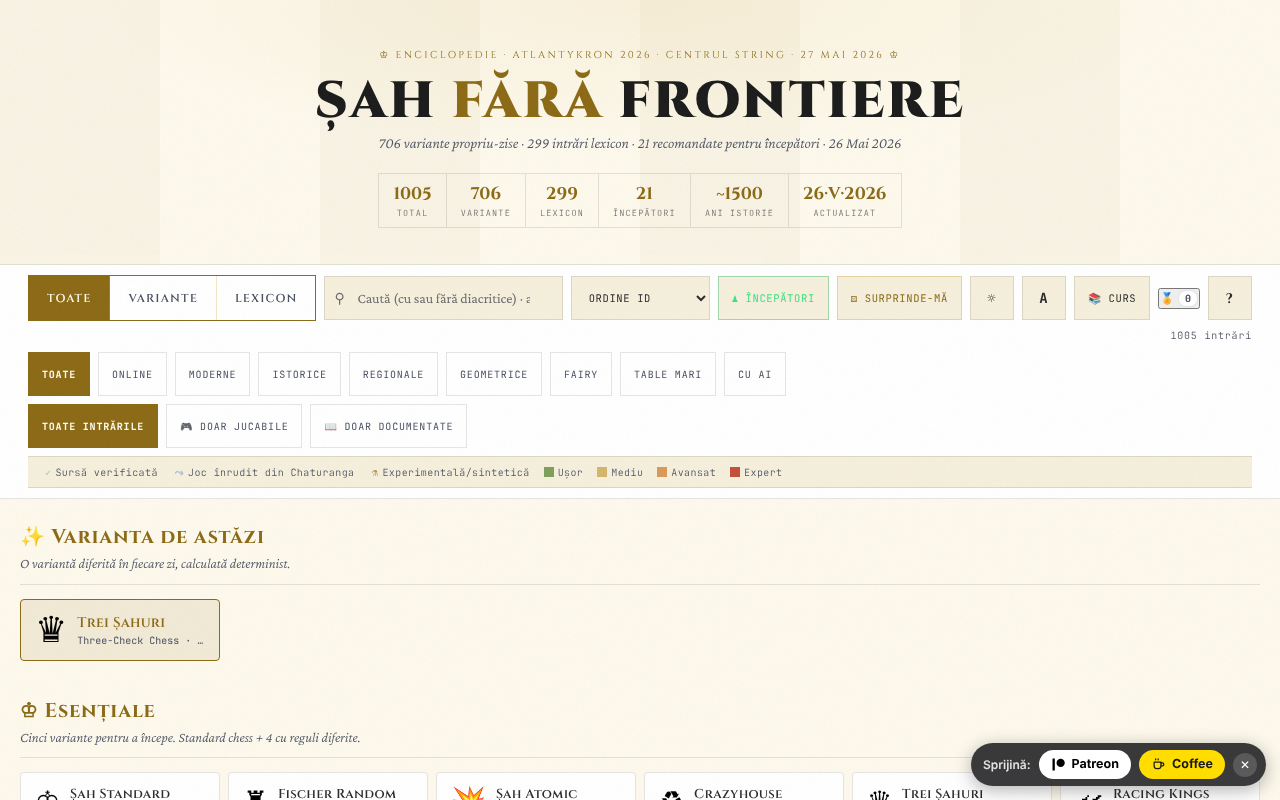
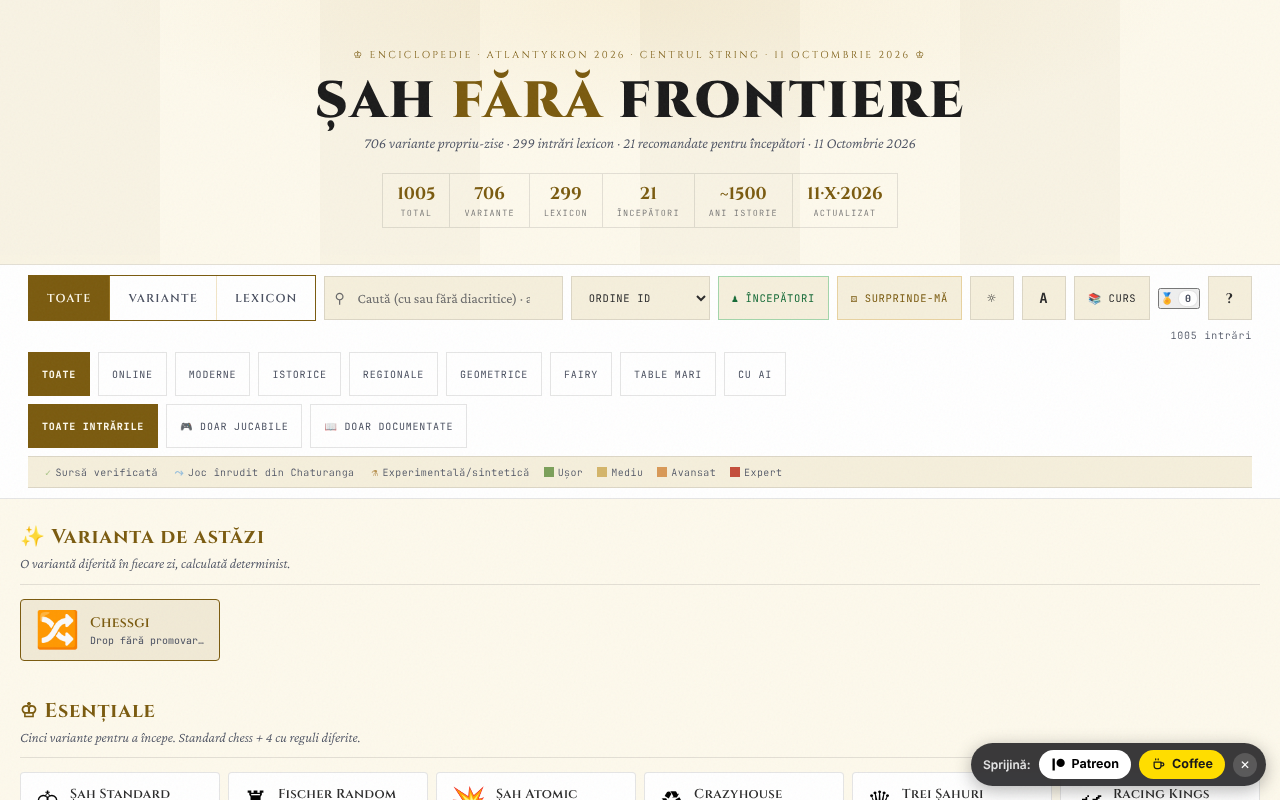
Runda 7 (11 octombrie 2026): defecte noi reparate, hash CSP, îmbunătățiri
Claude-Session: https://claude.ai/code/session_01D2sCEb3hy3nutYexhUfQFs

diff --git a/index.html b/index.html
@@ -25,7 +25,7 @@
   *,*::before,*::after{animation-duration:.001ms!important;animation-iteration-count:1!important;transition-duration:.001ms!important;scroll-behavior:auto!important}
 }
 </style>
-  <meta http-equiv="Content-Security-Policy" content="default-src 'self'; img-src 'self' data: blob:; style-src 'self' 'unsafe-inline'; font-src 'self' data:; media-src 'self' blob: data:; object-src 'none'; base-uri 'self'; form-action 'self'; worker-src 'none'; script-src 'self' 'sha256-RaRVHBQY6+g3XPTMHZW0YeQk2WKn/Yp3HyUL7DVeju4=' 'sha256-YKjzxrQphAnV0I+l9BDGWxbiZzM/1gRWe+LR5alC3Ak='; connect-src 'self'">
+  <meta http-equiv="Content-Security-Policy" content="default-src 'self'; img-src 'self' data: blob:; style-src 'self' 'unsafe-inline'; font-src 'self' data:; media-src 'self' blob: data:; object-src 'none'; base-uri 'self'; form-action 'self'; worker-src 'none'; script-src 'self' 'sha256-RaRVHBQY6+g3XPTMHZW0YeQk2WKn/Yp3HyUL7DVeju4=' 'sha256-zb42K2/twJu29Axka4JlBXWBq6f2QoQi8UZt/9v1gXk='; connect-src 'self'">
 <meta name="viewport" content="width=device-width, initial-scale=1.0">
 <title>Șah fără frontiere — 706 variante + 299 lexicon · 11 Octombrie 2026</title>
 <meta name="description" content="Enciclopedie șah: 706 variante propriu-zise și 299 intrări lexicon (istorie, AI, jucători, deschideri). Atelier Atlantykron 2026 · Centrul StrING.">
@@ -106,7 +106,7 @@
   background:linear-gradient(135deg,var(--gold-soft),transparent);
   border:1px solid var(--gold);border-radius:12px;padding:18px 48px 18px 22px;
   font-size:14px;line-height:1.6;color:var(--text);box-shadow:var(--shadow)}
-#welcome-banner h3{font-size:16px;color:var(--gold);margin:0 0 8px;
+#welcome-banner h2{font-size:16px;color:var(--gold);margin:0 0 8px;
   font-family:"JetBrains Mono",monospace;letter-spacing:.04em}
 #welcome-banner p{margin:0 0 6px}
 #welcome-banner .wb-steps{margin:8px 0 0;padding-left:0;list-style:none;
@@ -125,7 +125,7 @@
   background:linear-gradient(135deg,rgba(94,140,106,0.12),transparent);
   border:1px solid var(--jade,#5e8c6a);border-radius:12px;padding:18px 48px 18px 22px;
   font-size:14px;line-height:1.6;color:var(--text);box-shadow:var(--shadow)}
-#resume-banner h3{font-size:16px;color:var(--jade,#5e8c6a);margin:0 0 8px;
+#resume-banner h2{font-size:16px;color:var(--jade,#5e8c6a);margin:0 0 8px;
   font-family:"JetBrains Mono",monospace;letter-spacing:.04em}
 #resume-banner p{margin:0 0 12px}
 #resume-banner .wb-close{position:absolute;top:12px;right:12px;background:none;border:none;
@@ -171,6 +171,9 @@ h1 span{color:var(--gold)}
 /* ===== Controls ===== */
 .controls{padding:10px 28px;border-bottom:1px solid var(--border);background:var(--surface);position:sticky;top:0;z-index:100;backdrop-filter:blur(10px);-webkit-backdrop-filter:blur(10px);display:flex;flex-direction:column;gap:8px}
 .controls-row{display:flex;gap:8px;flex-wrap:wrap;align-items:center}
+/* Pe ecrane înguste/scurte bara de comenzi (≈620 px înălțime) ar acoperi aproape tot viewportul dacă ar rămâne lipită sus: devine statică */
+#grid .card,.curated-card,[id^="sec-"]{scroll-margin-top:250px}
+@media (max-width:820px),(max-height:560px){.controls{position:static}#grid .card,.curated-card,[id^="sec-"]{scroll-margin-top:12px}}
 
 .section-toggle{display:inline-flex;border:1px solid var(--gold);overflow:hidden}
 .section-btn{font-family:"Cinzel",Georgia,serif;font-size:11.5px;letter-spacing:.1em;text-transform:uppercase;padding:11px 18px;border:none;background:transparent;color:var(--silver);cursor:pointer;transition:all .12s;border-right:1px solid rgba(212,168,71,.3);font-weight:600;min-height:44px}
@@ -649,6 +652,10 @@ body[data-theme="light"] .turn-label.black{color:#666}
 @media (max-width:600px){
   .play-controls-row .ai-note .ai-note-text{display:none}
 }
+.ai-busy{display:flex;align-items:center;justify-content:center;gap:8px;margin:6px auto 0;padding:5px 12px;max-width:max-content;border:1px solid var(--gold);border-radius:999px;background:var(--gold-soft);color:var(--text);font-family:"JetBrains Mono",monospace;font-size:12px}
+.ai-busy-spin{width:12px;height:12px;border:2px solid var(--gold);border-top-color:transparent;border-radius:50%;animation:aibusyspin .8s linear infinite}
+@keyframes aibusyspin{to{transform:rotate(360deg)}}
+@media(prefers-reduced-motion:reduce){.ai-busy-spin{animation:none;border-top-color:var(--gold)}}
 .play-status{font-family:"JetBrains Mono",monospace;font-size:10px;color:var(--silver);text-align:center;letter-spacing:.04em;margin-top:4px;line-height:1.4}
 
 /* Mobile <500px: tighten play controls for small screens */
@@ -1143,7 +1150,7 @@ body.loading .grid::before{
       <h3>Mulțumiri</h3>
       <p>Wikipedia (peste 200 articole consultate); World Xiangqi Federation; Lichess (Crazyhouse + variant docs); Władysław Gliński (1936) pentru tabla hexagonală; V.R. Parton (1953) pentru Alice Chess; H.J.R. Murray pentru <em>A History of Chess</em> (1913). Recenzii oneste și critice de la 12 persoane imaginare (vezi documentul separat 12-recenzii-oneste.html). Implementare în iterații cu asistență AI — fiecare engine verificat cu mass-sweep automat.</p>
       <h3>Versiune</h3>
-      <p class="mono">v14.2 · Octombrie 2026 · Atlantykron 2026 · CC0 1.0</p>
+      <p class="mono">v14.3 · Octombrie 2026 · Atlantykron 2026 · CC0 1.0</p>
       <h3>Ghid de utilizare</h3>
       <p>
         <button type="button" class="about-action-btn" id="about-restart-tour">▶ Reia tour-ul de prezentare</button>
@@ -8999,6 +9006,29 @@ function aiSchedulePrecomputation(domMap, userColor, cols, rows){
   }, {timeout: 2000});
 }
 
+// Indicator vizual (aria-hidden; starea rămâne anunțată prin #play-status) cu secundele scurse cât gândește AI-ul
+let _aiBusyTimer = null;
+function _hideAIBusy(){
+  if (_aiBusyTimer){ clearInterval(_aiBusyTimer); _aiBusyTimer = null; }
+  const b = document.getElementById("ai-busy"); if (b) b.remove();
+}
+function _showAIBusy(){
+  _hideAIBusy();
+  const ps = document.getElementById("play-status");
+  if (!ps || !ps.parentNode) return;
+  const el = document.createElement("div");
+  el.id = "ai-busy"; el.className = "ai-busy"; el.setAttribute("aria-hidden", "true");
+  el.innerHTML = '<span class="ai-busy-spin"></span><span class="ai-busy-txt">AI gândește…</span>';
+  ps.parentNode.insertBefore(el, ps.nextSibling);
+  const t0 = Date.now();
+  _aiBusyTimer = setInterval(() => {
+    if (!aiThinking || !document.getElementById("ai-busy")){ _hideAIBusy(); return; }
+    const sec = Math.floor((Date.now() - t0) / 1000);
+    const txt = el.querySelector(".ai-busy-txt");
+    if (txt) txt.textContent = "AI gândește… " + sec + " s";
+  }, 250);
+}
+
 function aiPlayMove(board, v, cols, rows){
   if (aiThinking || gameEnded){
     // FIX BUG 4 (rec. IX/Vlad): if we were running AI vs AI and just hit a
@@ -9009,6 +9039,7 @@ function aiPlayMove(board, v, cols, rows){
   aiThinking = true;
   appendAIDialog('💭 <em>Calculez mutarea...</em>', true);
   document.getElementById("play-status").textContent = "🤖 AI gândește...";
+  _showAIBusy();
   setTimeout(async () => {
     try {
       const svg = _getActiveBoardSvg();
@@ -11458,7 +11489,7 @@ document.getElementById("about-export-bibtex").addEventListener("click", () => {
     '  title  = {Atlas {\\c{S}}ah f\\u{a}r\\u{a} frontiere},\n' +
     '  author = {Chiu\\c{t}\\u{a}, Alexandru-Ionu\\c{t}},\n' +
     '  year   = {' + year + '},\n' +
-    '  note   = {v14.2 \\textperiodcentered{} Atlantykron 2026 \\textperiodcentered{} Centrul StrING \\textperiodcentered{} ' + V.length + ' intr\\u{a}ri},\n' +
+    '  note   = {v14.3 \\textperiodcentered{} Atlantykron 2026 \\textperiodcentered{} Centrul StrING \\textperiodcentered{} ' + V.length + ' intr\\u{a}ri},\n' +
     '  url    = {' + location.origin + location.pathname + '},\n' +
     '  urldate = {' + today + '}\n' +
     '}';
@@ -12008,7 +12039,7 @@ requestAnimationFrame(() => {
         banner.setAttribute("aria-label", "Bun venit — ghid rapid");
         banner.innerHTML =
           '<button class="wb-close" aria-label="Închide ghidul de bun venit" title="Închide">✕</button>' +
-          '<h3>♔ Bun venit la Atlas Șah fără frontiere</h3>' +
+          '<h2>♔ Bun venit la Atlas Șah fără frontiere</h2>' +
           '<p>Explorează 1005 intrări: 706 variante de șah jucabile + 299 termeni de lexicon. Tot ce vezi funcționează 100% offline.</p>' +
           '<ul class="wb-steps">' +
             '<li data-n="1">Atinge o variantă pentru detalii</li>' +
@@ -12016,7 +12047,9 @@ requestAnimationFrame(() => {
             '<li data-n="3">Caută cu / · Surprinde-mă cu R · Ajutor cu ?</li>' +
           '</ul>' +
           '<button class="wb-tour-btn" id="wb-start-tour">▶ Începe turul (30 sec)</button>';
-        grid.parentNode.insertBefore(banner, grid);
+        // în vârful conținutului (înainte de „Varianta de astăzi”), ca ghidul să fie vizibil la prima deschidere
+        const anchor = document.getElementById("curated-landing") || grid;
+        anchor.parentNode.insertBefore(banner, anchor);
         const closeBanner = () => {
           banner.style.display = "none";
           try { localStorage.setItem("sff:welcomeSeen", "1"); } catch(e) {}
@@ -12076,7 +12109,7 @@ requestAnimationFrame(() => {
       wb.setAttribute("aria-label", "Jocuri în desfășurare");
       wb.innerHTML =
         '<button class="wb-close" aria-label="Închide" title="Închide">✕</button>' +
-        '<h3>👋 Bun venit înapoi</h3>' +
+        '<h2>👋 Bun venit înapoi</h2>' +
         '<p>Aveți ' + meaningful.length + ' joc' + (meaningful.length === 1 ? '' : 'uri') + ' în desfășurare:</p>' +
         '<div class="resume-list">' +
         meaningful.slice(0, 5).map(g =>
@@ -12086,7 +12119,8 @@ requestAnimationFrame(() => {
           '</button>'
         ).join('') +
         '</div>';
-      grid.parentNode.insertBefore(wb, grid);
+      const anchor2 = document.getElementById("curated-landing") || grid;
+      anchor2.parentNode.insertBefore(wb, anchor2);
       wb.querySelector(".wb-close").addEventListener("click", () => wb.style.display = "none");
       wb.querySelectorAll(".resume-item").forEach(btn => {
         btn.addEventListener("click", () => {

diff --git a/README.md b/README.md
@@ -4,13 +4,13 @@ Atlas/enciclopedie de variante de șah: 706 variante și 299 intrări de lexicon
 
 **Live:** https://chiuta.github.io/Sah-fara-frontiere/
 
-Ultima actualizare: 11 octombrie 2026 · versiune v14.2
+Ultima actualizare: 11 octombrie 2026 · versiune v14.3
 
 ![Captura de ecran](screenshot.png)
 
 ## Ce este
 
-Șah fără frontiere este un atlas dintr-un singur fișier HTML (v14.2, actualizat la 11 octombrie 2026; realizat pentru atelierul Atlantykron 2026) cu 1005 intrări: 706 variante de șah (online, moderne, istorice, regionale, geometrice, fairy, pe table mari, cu AI) și 299 de termeni de lexicon (istorie, AI, jucători, deschideri). Potrivit secțiunii „Despre acest atlas", fișierul este generat dintr-un script Python și un JSON de date, fără dependențe la rulare, cu implementare în iterații asistate de AI.
+Șah fără frontiere este un atlas dintr-un singur fișier HTML (v14.3, actualizat la 11 octombrie 2026; realizat pentru atelierul Atlantykron 2026) cu 1005 intrări: 706 variante de șah (online, moderne, istorice, regionale, geometrice, fairy, pe table mari, cu AI) și 299 de termeni de lexicon (istorie, AI, jucători, deschideri). Potrivit secțiunii „Despre acest atlas", fișierul este generat dintr-un script Python și un JSON de date, fără dependențe la rulare, cu implementare în iterații asistate de AI.
 
 ## Funcții
 
@@ -43,6 +43,12 @@ Ultima actualizare: 11 octombrie 2026 · versiune v14.2
 Descarcă `index.html` (aproximativ 1,9 MB) și deschide-l în browser; funcționează fără internet. Doar linkurile către surse externe necesită conexiune.
 
 ## Istoric / Changelog
+
+### v14.3 — 11 octombrie 2026
+- Pe ecrane înguste (≤820 px) sau scurte (≤560 px) bara de comenzi nu mai rămâne lipită sus: pe telefon ocupa ≈620 px din 740 și acoperea cardurile (clicul pe primele carduri nu mai ajungea la ele); pe desktop, cardurile au `scroll-margin-top` ca să nu rămână sub bara lipită.
+- Indicator vizual „AI gândește… N s” sub tablă cât timp calculează AI-ul (starea rămâne anunțată și prin regiunea `aria-live` existentă); respectă `prefers-reduced-motion`.
+- Bannerul „Bun venit” apare acum în vârful conținutului (înainte de „Varianta de astăzi”), nu sub secțiunile curate.
+- Dimensiunea (≈1,9 MB) rămâne: ~1,05 MB sunt datele (deja compacte) și ~230 KB fonturi base64 pentru funcționare offline.
 
 ### v14.2 — 11 octombrie 2026
 - Securitate: politica CSP nu mai conține `'unsafe-inline'`, `'wasm-unsafe-eval'` și `blob:` pentru scripturi (scripturile inline sunt acum autorizate prin hash SHA-256); `worker-src` este `'none'`.
